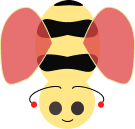
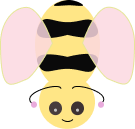
Updated images and extracted out more constants.

diff --git a/js/bots.js b/js/bots.js
@@ -56,6 +56,11 @@ class RandomBot extends Bot {
 
 // Bees go to nearest flower and return to queen bee when they have some pollen.
 class HarvesterBot extends Bot {
+  constructor(minPollen) {
+    super();
+    this.minPollen = minPollen || 1;
+  }
+
   computeNextMove(map) {
     let moves = [];
     let flowerCells = [];
@@ -81,10 +86,10 @@ class HarvesterBot extends Bot {
 
     for (let beeCell of beeCells) {
       let insect = beeCell.getInsect();
-      if (insect.getPollen() > 0) {
+      if (insect.getPollen() >= this.minPollen * insect.getCount()) {
         let path = this.getPath(map, beeCell.getY(), beeCell.getX(), queenBeeCell.getY(), queenBeeCell.getX());
         moves.push(new Action(beeCell.getX(), beeCell.getY(), path.move, path.move - 1, insect.getCount()));
-      } else {
+      } else if (beeCell.getPotency() == 0) {
         let flowerCell = flowerCells[0];
         let minPath = this.getPath(map, beeCell.getY(), beeCell.getX(), flowerCell.getY(), flowerCell.getX());
         for (let i = 1; i < flowerCells.length; ++i) {
@@ -106,9 +111,10 @@ class HarvesterBot extends Bot {
 
 // Bees go to nearest potent flower and return to queen bee when they have some pollen
 class PotentBot extends Bot {
-  constructor(numDowns) {
+  constructor(minPollen, numDowns) {
     super();
     this.turns = 0;
+    this.minPollen = minPollen || 1;
     this.numDowns = numDowns || 0;
   }
 
@@ -137,10 +143,10 @@ class PotentBot extends Bot {
 
     for (let beeCell of beeCells) {
       let insect = beeCell.getInsect();
-      if (insect.getPollen() > 0) {
+      if (insect.getPollen() > this.minPollen * insect.getCount()) {
         let path = this.getPath(map, beeCell.getY(), beeCell.getX(), queenBeeCell.getY(), queenBeeCell.getX());
         moves.push(new Action(beeCell.getX(), beeCell.getY(), path.move, path.move - 1, insect.getCount()));
-      } else {
+      } else if (beeCell.getPotency() != Flower.POTENT) {
         let flowerCell = flowerCells[0];
         let minPath = this.getPath(map, beeCell.getY(), beeCell.getX(), flowerCell.getY(), flowerCell.getX());
         for (let i = 1; i < flowerCells.length; ++i) {

diff --git a/js/canvas.js b/js/canvas.js
@@ -21,7 +21,7 @@ class Canvas {
   }
 
   drawGrid() {
-    this.ctx.strokeStyle = '#E4E4E4';
+    this.ctx.strokeStyle = GRID_COLOUR;
     this.ctx.beginPath();
     for (let x = this.xStep; x < this.width; x += this.xStep) {
       this.ctx.moveTo(x, 0);
@@ -151,7 +151,7 @@ class Canvas {
 
     let fontSize = this.insectSize / 1.5;
     this.ctx.font = fontSize + 'px Arial';
-    this.ctx.fillStyle = '#E4E4E4';
+    this.ctx.fillStyle = TEXT_COLOUR;
     this.ctx.fillText(count, x + fontSize / 6, y + fontSize);
     this.ctx.fillText(pollen, x + fontSize / 6, y + this.yStep - fontSize / 4);
   }

diff --git a/js/constants.js b/js/constants.js
@@ -42,3 +42,5 @@ for (let i = 0; i < 2; ++i) {
 const MAX_TURNS = 20;
 const ANIMATION_TIME = 500;
 const PAUSE_TIME = 200;
+const GRID_COLOUR = '#E4E4E4';
+const TEXT_COLOUR = 'E4E4E4';

diff --git a/css/main.css b/css/main.css
@@ -1,4 +1,4 @@
 body {
-    background: #121314;
+    background: #77D877;
     color: #E4E4E4;
 }
